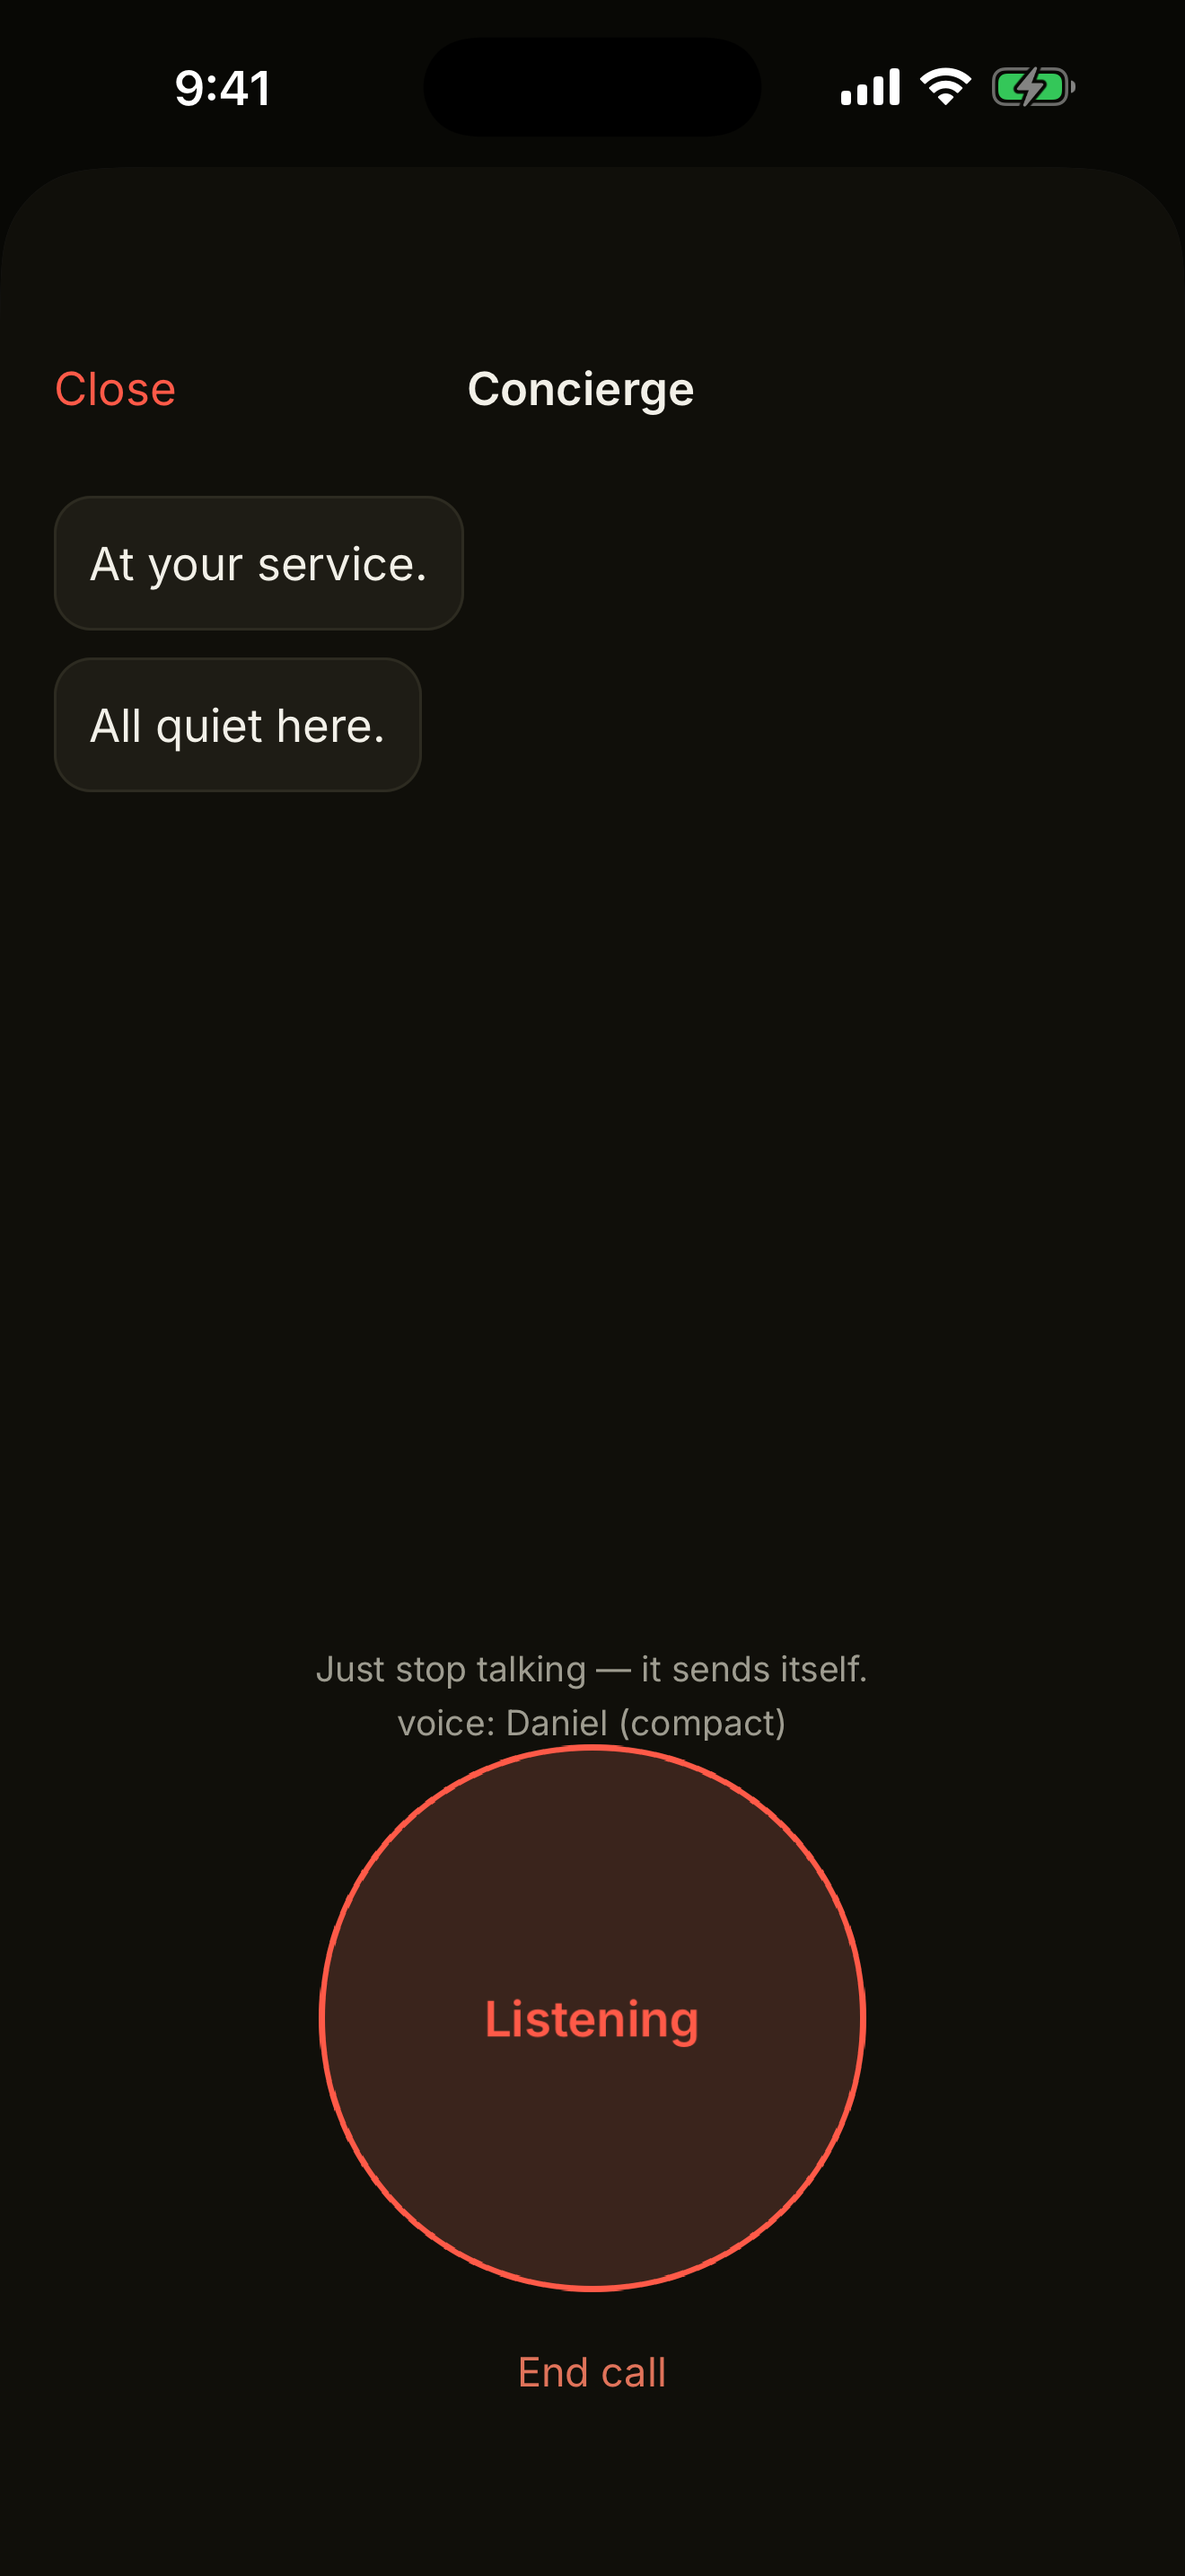
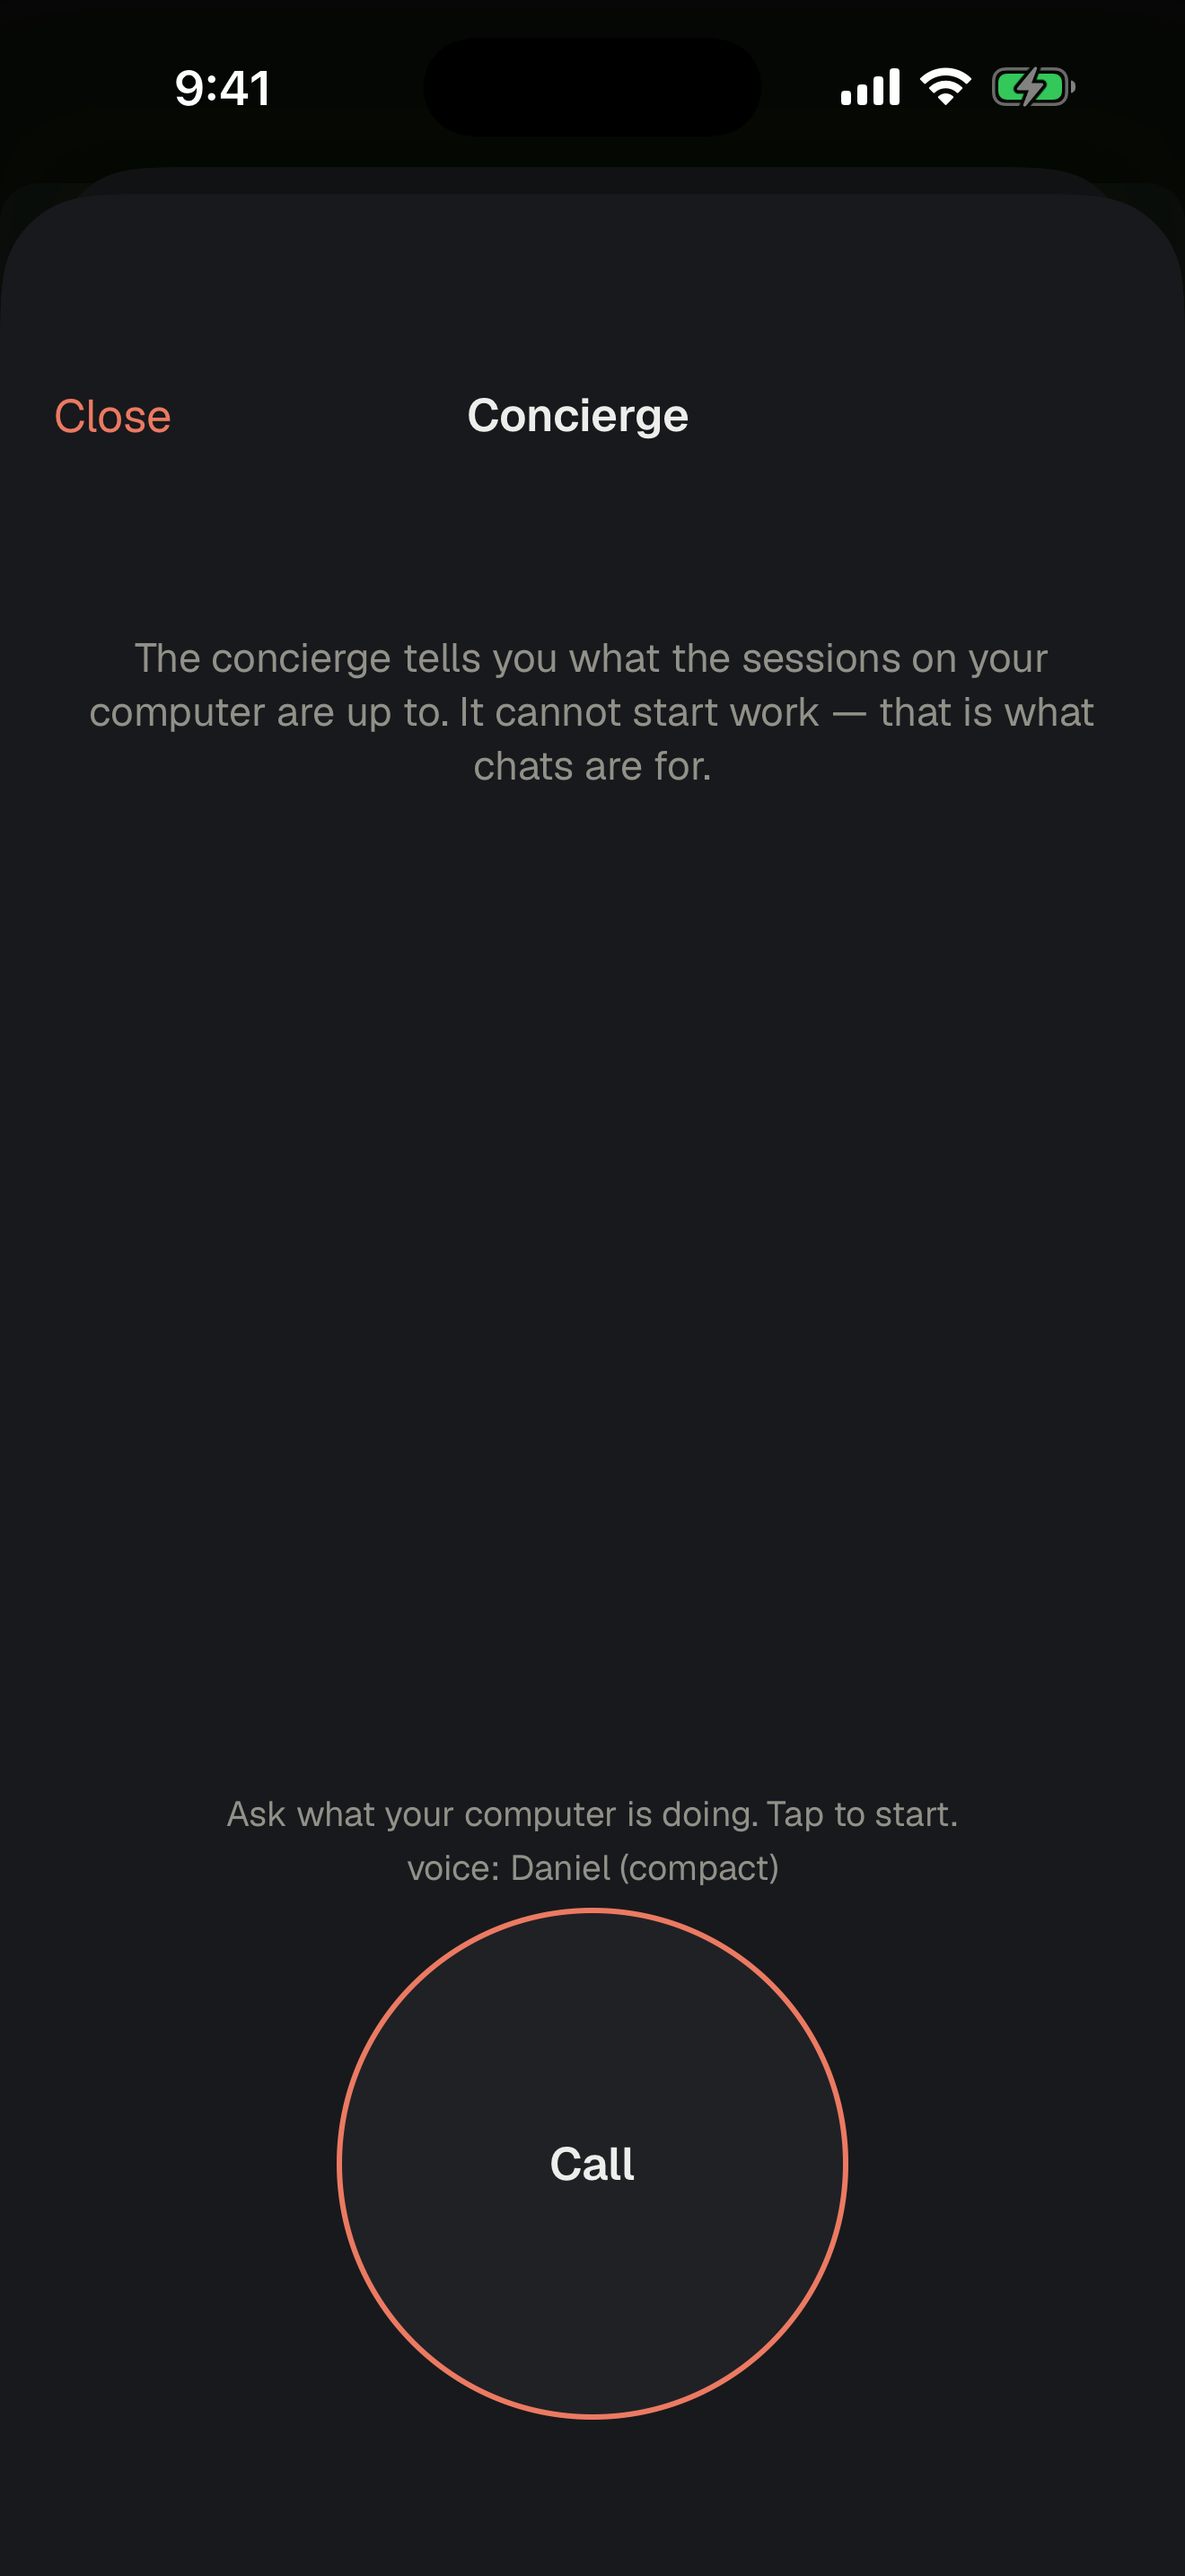
The phone pictures show the app as it is now
All eight were from the September interface. Taken again from a throwaway
daemon with demo projects, plus two new ones: the dashboard the app now
opens on, and Machines. The README leads with the dashboard.

The how-to now keeps the shots daemon away from the real ustabasi queue —
the first attempt put real ticket titles in the dashboard's inbox — and
says how to word prompts so no home-directory path lands in a picture.

diff --git a/README.md b/README.md
@@ -10,9 +10,9 @@ with your own account, reached over your own private network.
 https://github.com/user-attachments/assets/3d307479-29b1-4a1b-b280-6d381db8cfbc
 
 <p align="center">
-  <img src="docs/screenshots/chat.png" width="250" alt="A chat: the agent has read a file and answered">
+  <img src="docs/screenshots/dashboard.png" width="250" alt="The dashboard: a composer, the projects, the inbox">
+  <img src="docs/screenshots/chat.png" width="250" alt="A chat: the agent has read a file and is answering">
   <img src="docs/screenshots/approval.png" width="250" alt="An approval: rm -rf waiting for a decision">
-  <img src="docs/screenshots/chats.png" width="250" alt="The chat list, grouped by project">
 </p>
 
 ---
@@ -50,12 +50,14 @@ What that gets you, in practice:
 
 | | |
 |---|---|
+| <img src="docs/screenshots/dashboard.png" width="230"> | **The dashboard.** What needs you, what is working, what is stuck. Tell it what to do and it goes to a project's board; the projects, the inbox and every chat are one tap down. |
 | <img src="docs/screenshots/chats.png" width="230"> | **Chats, grouped by project.** One row per conversation, titled with the project it runs in. Group them by hand or let the folder do it, swipe a row aside to archive or delete it, search titles and messages. |
 | <img src="docs/screenshots/chat.png" width="230"> | **A turn, streaming.** Text arrives token by token; a run of tool calls folds into one line until you ask for it. The footer is what the turn actually cost. |
 | <img src="docs/screenshots/approval.png" width="230"> | **The approval.** In `ask` mode every shell command stops here. A dangerous one stops here even in `bypass`. |
 | <img src="docs/screenshots/new-chat.png" width="230"> | **Starting one.** Pick the tool, the model, how hard it should think, how much rope it gets, and which folder it opens in. |
 | <img src="docs/screenshots/call.png" width="230"> | **Calling it.** A voice line to a concierge that can see every chat on that computer and say what each one is doing. It answers out loud; when the computer wants you, the phone rings. |
 | <img src="docs/screenshots/settings.png" width="230"> | **Settings.** Several computers, several sign-ins per tool, and a daemon that follows `origin/main` on its own. |
+| <img src="docs/screenshots/machines.png" width="230"> | **Machines.** Which computers answer, how much of the plan is left and when it resets, and who is working on what. |
 
 ### And a desktop panel
 

diff --git a/docs/screenshots/README.md b/docs/screenshots/README.md
@@ -8,12 +8,14 @@ forever, and a real chat list is a list of what somebody is working on.
 
 | file | screen | taken on |
 |---|---|---|
-| `chats.png` | the chat list, grouped by project | iPhone 17 Pro Max simulator, 1320×2868 |
+| `dashboard.png` | the dashboard: composer, projects, inbox | iPhone 17 Pro Max simulator, 1320×2868 |
+| `chats.png` | the chat list, grouped by project, one waiting on an approval | same |
 | `chat.png` | a turn mid-stream, with the stop button | same |
 | `approval.png` | `rm -rf build` waiting for a decision | same |
 | `new-chat.png` | the new-chat sheet | same |
 | `settings.png` | settings: computers, software, defaults | same |
-| `call.png` | the concierge call, listening | same |
+| `machines.png` | Machines: the computer, the quota, the executors | same |
+| `call.png` | the concierge call, before it starts | same |
 | `agents.png` | the agents tab | same |
 | `pair.png` | adding a computer | same |
 | `panel-dashboard.png` | the panel's dashboard: what needs you, projects, what is running | headless Chrome, 1440 wide, from `web/scripts/shot-dashboard.mjs` |
@@ -55,8 +57,20 @@ allowed_roots = ["/Users/<you>/demo-projects"]
 ```
 
 ```bash
-RAC_HOME=/tmp/rac-demo .venv312/bin/remote-ai-chat serve
+mkdir -p /tmp/rac-demo/ustabasi
+RAC_HOME=/tmp/rac-demo USTABASI_STATE_DIR=/tmp/rac-demo/ustabasi \
+  USTABASI_CLI=/nonexistent .venv312/bin/remote-ai-chat serve
 ```
+
+The two `USTABASI_*` variables matter on a machine that runs the queue: without
+them the dashboard's inbox reads the real one, ticket titles and all. The phone
+keeps what it has read, so a phone that has already seen the real inbox has to
+have the app deleted and installed again.
+
+Word the prompts so they stay in the folder ("look only in this folder: …",
+"run `rm -rf build`, exactly as written"). Asked loosely, the agent goes looking
+in the real checkout, or writes the command with an absolute path that has a
+home directory in it.
 
 The phone:
 
